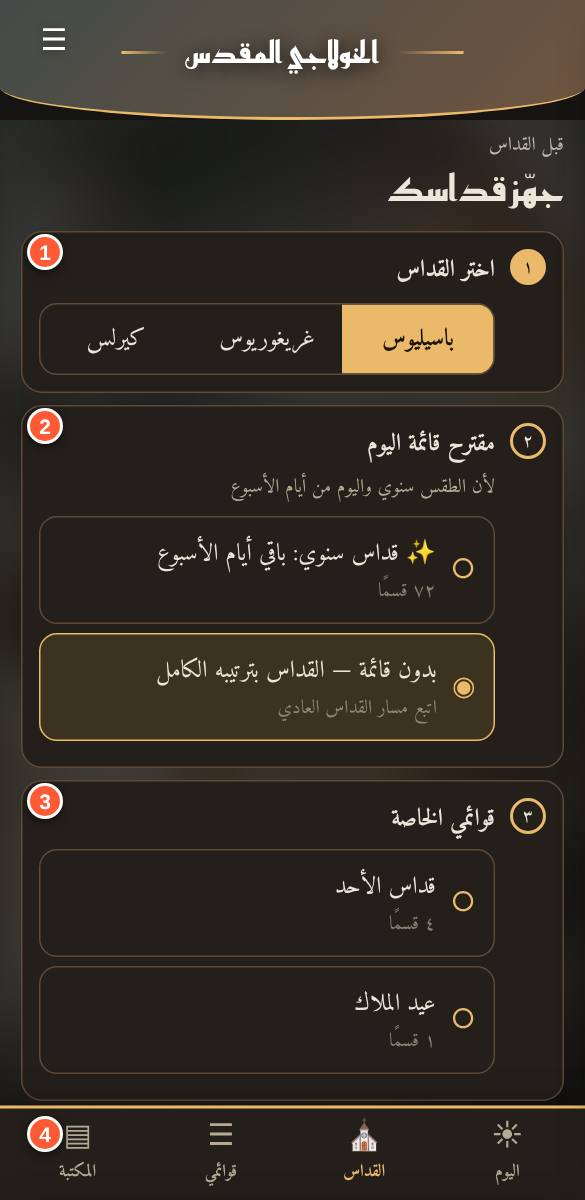
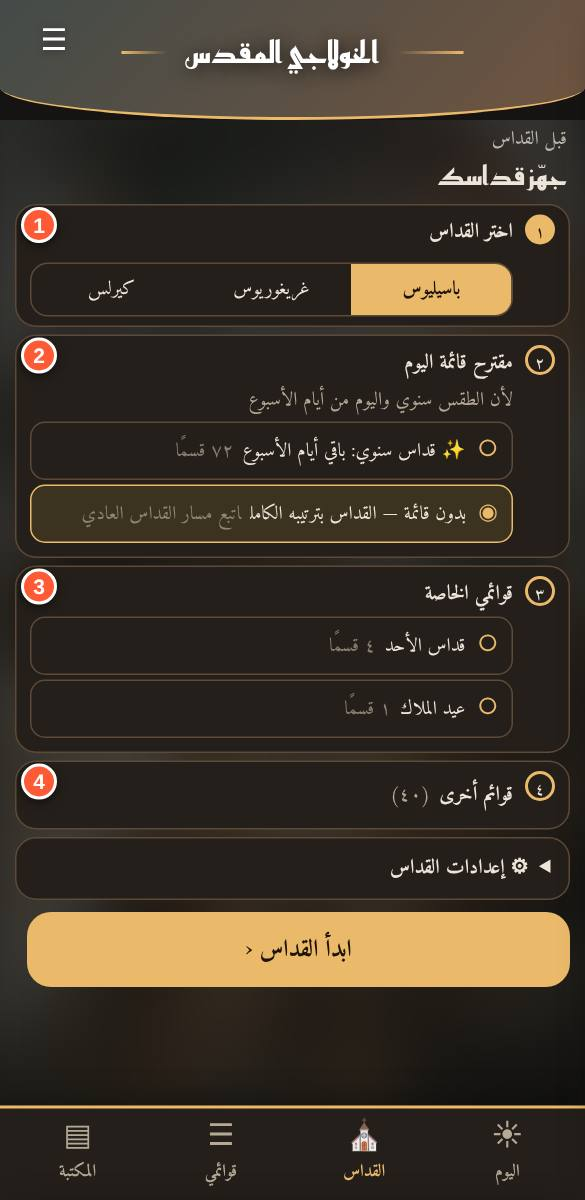
1.6.4: تصميم مضغوط لشاشة ابدأ القداس والقوائم والتقويم
Claude-Session: https://claude.ai/code/session_01TxsQH8W41ZBNhnMhe9bVaK

Changed region(s): [[0.0308, 0.0925, 0.9846, 0.8942], [0.0308, 0.925, 0.1231, 0.9867], [0.0308, 0.8633, 0.0923, 0.8942]]

diff --git a/index.html b/index.html
@@ -592,6 +592,8 @@ html{scroll-padding-top:var(--tbh,0px)}
 .rtd a,.rtd button.kcl{color:inherit;text-decoration:underline;background:none;border:0;padding:0;font:inherit;cursor:pointer}
 .prop{display:flex;gap:10px;align-items:center;width:100%;text-align:start;margin:6px 0;padding:10px 12px;border-radius:12px;border:1.5px solid var(--line);background:var(--card);color:var(--ink)}.prop.on{border-color:var(--acc);background:rgba(212,168,74,.14)}.prop i{font-style:normal;font-size:18px;color:var(--acc)}.prop small{display:block;opacity:.7;font-size:calc(var(--fs)*.55)}
 .prmore summary{cursor:pointer;padding:4px 0}.prset{margin:10px 14px;border:1.5px solid var(--line);border-radius:14px;background:var(--card)}.prset>summary{padding:12px;font-weight:700;cursor:pointer}.prsb{padding:0 12px 12px}
+.prc .chk>div:last-child{flex:1;min-width:0}.prmore summary{display:flex;align-items:center;gap:6px;list-style:none}.prc .chk{margin:0 10px 5px;padding:6px 9px;gap:8px}.prc .chk .c{width:20px;height:20px;font-size:.7rem}.prc .chk b{font-size:.85rem}.prc .seg{margin:4px 0 0}.prc .seg button{padding:6px 2px;font-size:.8rem}.prc .prop{padding:5px 9px;margin:3px 0;gap:8px;font-size:.8rem;border-radius:10px}.prc .prop small{display:inline;margin-inline-start:6px}.prc .prop i{font-size:15px}.prc .prlst>small{display:block;margin:2px 0}.prc .prset{margin:4px 10px 6px}.prc .prset>summary{padding:8px 12px;font-size:.85rem}.prc .stl{margin:6px 0 2px}.prc .sw button{padding:5px 8px}.prc .tdstart{margin:8px 10px 4px;padding:11px}
+.dxi{padding:6px 10px}.dxi .go{padding:3px 4px;line-height:1.4}.dxsec>summary{padding:9px 12px}.dxsec{margin:0 10px 6px}.dxin{padding:0 6px 6px}.rtm{margin:0 10px 6px;padding:7px 10px}.dxtd2{margin:0 10px 6px}.dxtd2>summary{padding:6px 10px}.kcdet{margin:6px 10px;padding:8px 10px}.kcc{min-height:46px}.kctabs{margin:0 10px 6px}.kctabs button{padding:6px}
 .dxpre{margin:0 12px 12px;border:1.5px solid var(--line);border-radius:14px;background:var(--card)}.dxpre>summary{padding:12px;font-weight:700;cursor:pointer}
 .dxtd .dxsn{display:block;padding:0 14px 6px;color:var(--mute);font-size:.8rem}
 .dxi .go small{display:block;font-weight:400;font-size:0.72rem;color:var(--mute)}
@@ -1263,7 +1265,7 @@ var PSEL="";
 function preView(){
   ctl(false);document.title="قبل القداس — الخولاجي";var lit=S.lit||"bas",d=dxd(),pr=dxPresets();
   var keep=document.querySelector(".prlst")?window.scrollY:0;
-  var h='<div class="sub" style="padding:6px 14px 0">قبل القداس</div><div class="hd" style="padding:0 14px 10px">جهّز قداسك</div>';
+  var h='<div class="prc"><div class="sub" style="padding:2px 12px 0">قبل القداس</div><div class="hd" style="padding:0 12px 6px;font-size:1.1rem">جهّز قداسك</div>';
   h+='<div class="chk"><div class="c ok">١</div><div><b>اختر القداس</b><div class="seg">'+["bas","greg","cyr"].map(function(k){return '<button data-lt="'+k+'" data-pre="1" class="'+(lit===k?'on':'')+'">'+LNAME[k]+'</button>'}).join("")+'</div></div></div>';
   var opt=function(id,name,sub,star){return '<button class="prop'+(PSEL===id?' on':'')+'" data-psel="'+esc(id)+'" aria-pressed="'+(PSEL===id)+'"><i>'+(PSEL===id?'◉':'○')+'</i><span>'+(star?'✨ ':'')+esc(name)+'<small>'+sub+'</small></span></button>'};
   var cnt=function(x){return ar9(x.items.length)+' قسمًا'};
@@ -1280,7 +1282,7 @@ function preView(){
     +'<div class="stl">طريقة القراءة</div><div class="sw">'+[["unit","قطعة قطعة"],["flow","عرض متصل"]].map(function(c){return '<button data-set="rm" data-v="'+c[0]+'" class="'+(S.rm===c[0]?'on':'')+'">'+c[1]+'</button>'}).join("")+'</div>'
     +'<div class="stl">حجم الخط</div><div class="fsr"><button data-qfs="-2">أ−</button><span>'+ar9(S.fs)+'</span><button data-qfs="2">أ+</button></div>'
     +'<button class="lnk" data-qset="1">كل الإعدادات ‹</button></div></details>';
-  h+='<button class="tdstart" data-dmgo="pre">ابدأ القداس ‹</button>'+bnav('lit');
+  h+='<button class="tdstart" data-dmgo="pre">ابدأ القداس ‹</button></div>'+bnav('lit');
   app.innerHTML=h;window.scrollTo(0,keep)}
 function dxApplySel(id){var d=dxd();
   if(id.indexOf("pre:")===0){var P=dxPresets().filter(function(x){return "pre:"+x.k===id})[0];if(!P)return false;d.lists=d.lists.filter(function(x){return x.id!=="l-tmp"});d.lists.push({id:"l-tmp",tmp:true,name:P.n,items:P.ids.slice()});d.cur="l-tmp";dxw(d);return true}

diff --git a/guide-news.js b/guide-news.js
@@ -1,7 +1,8 @@
 /* سجل الميزات الجديدة (الأحدث أولا). كل ميزة جديدة تُضاف هنا كمدخل جديد في أعلى القائمة،
    ثم تُحدَّث مواصفة الصفحة المتأثرة في tools/make-guide.js وتُعاد اللقطات (node tools/make-guide.js). */
-window.KG_VERSION="1.6.3";
+window.KG_VERSION="1.6.4";
 window.KG_NEWS=[
+{v:"1.6.4", t:"تصميم أكثر إحكاما", x:"شاشة «ابدأ القداس» والقوائم والتقويم بمسافات أصغر وصفوف مضغوطة تُظهر المحتوى أكثر في الشاشة."},
 {v:"1.6.3",t:"شاشة «ابدأ القداس» الجديدة",x:"عند «ابدأ القداس» تظهر الآن أربع خطوات: ١) اختيار القداس (باسيلي/غريغوري/كيرلسي)، ٢) مقترح قائمة اليوم حسب الطقس، ٣) قوائمك الخاصة، ٤) قوائم أخرى (الجاهزة والمناسبات). اختر قائمة أو «بدون قائمة» ثم ابدأ. وفيها «إعدادات القداس» لتغيير الأعمدة والإرشادات والتأملات والهمسات وطريقة القراءة وحجم الخط."},
 {v:"1.6.2",t:"صفحة التقويم القبطي",x:"صفحة جديدة «📅 التقويم القبطي» على نمط «رفيق روحي»: تبويب «القادم» (أقرب الأعياد والأصوام بعدّاد الأيام وتنبيه 🔔 قبلها بيومين)، و«الشهر» (شبكة بالتاريخين مع نقاط للأعياد والأصوام)، و«مواسم السنة» (أي سنة 1900–2099 مع جدول الأعياد). وعند الضغط على أي يوم يظهر طقسه وألحانه وأنسب قائمة له وذكصولوجياته ومدائح توزيعه. تُفتح من المكتبة والرئيسية وكارت طقس اليوم."},
 {v:"1.6.1",t:"كارت طقس اليوم الموسَّع",x:"كارت طقس اليوم في «قوائمي» صار مفتوحا لا مطويا: التاريخ القبطي والميلادي، وشرح مختصر لطقس اليوم، وألحان اليوم، ويوم آدام أو واطس ووزن الذكصولوجيات، وملاحظات المناسبة، وتحته اقتراح بأنسب قائمة لليوم حسب الطقس مع زر ▶ قراءة."},

diff --git a/sw.js b/sw.js
@@ -1,4 +1,4 @@
-const CACHE_NAME='khulagi-v1.6.3';
+const CACHE_NAME='khulagi-v1.6.4';
 const FILES=['./','index.html','icon-192.png','icon-512.png','guide-news.js','calendar.js','content-tawzi.txt','guide-pages.js','guide/doxologies.jpg','guide/occasions.jpg','guide/library.jpg','guide/lists.jpg','guide/lit.jpg','guide/notes.jpg','guide/post.jpg','guide/pre.jpg','guide/reader.jpg','guide/settings.jpg','guide/sidx.jpg','guide/splash.jpg','guide/story.jpg','guide/today.jpg','reemkufi-arabic-700-normal.woff2','dawn.jpg','data.js','study.js','swipe.js','live.js','story.js','study-data.js','data-bible.js','content-raf.txt','content-bas.txt','content-greg.txt','content-cyr.txt','content-qisam.txt','content-misc.txt','content-bless.txt','content-app.txt','content-taqs.txt','content-dox.txt','manifest.webmanifest','amiri-arabic-400-normal.woff2','amiri-arabic-700-normal.woff2','amiri-latin-400-normal.woff2','tajawal-arabic-400.woff2','tajawal-latin-400.woff2','tajawal-arabic-700.woff2','tajawal-latin-700.woff2','cairo-arabic-400-normal.woff2','cairo-arabic-700-normal.woff2','el-messiri-arabic-400-normal.woff2','el-messiri-arabic-700-normal.woff2','lateef-arabic-400-normal.woff2','lateef-arabic-700-normal.woff2','markazi-text-arabic-400-normal.woff2','markazi-text-arabic-700-normal.woff2','noto-naskh-arabic-arabic-400-normal.woff2','noto-naskh-arabic-arabic-700-normal.woff2','reem-kufi-arabic-400-normal.woff2','reem-kufi-arabic-700-normal.woff2','scheherazade-new-arabic-400-normal.woff2','scheherazade-new-arabic-700-normal.woff2','amiri-latin-700-normal.woff2','noto-sans-coptic-coptic-400-normal.woff2','noto-sans-coptic-latin-400-normal.woff2'];
 self.addEventListener('install',e=>{e.waitUntil(caches.open(CACHE_NAME).then(c=>Promise.all(FILES.map(f=>c.add(new Request(f,{cache:'reload'})).catch(()=>{})))).then(()=>self.skipWaiting()))});
 self.addEventListener('activate',e=>{e.waitUntil(caches.keys().then(k=>Promise.all(k.filter(x=>x!==CACHE_NAME).map(x=>caches.delete(x)))).then(()=>self.clients.claim()))});
